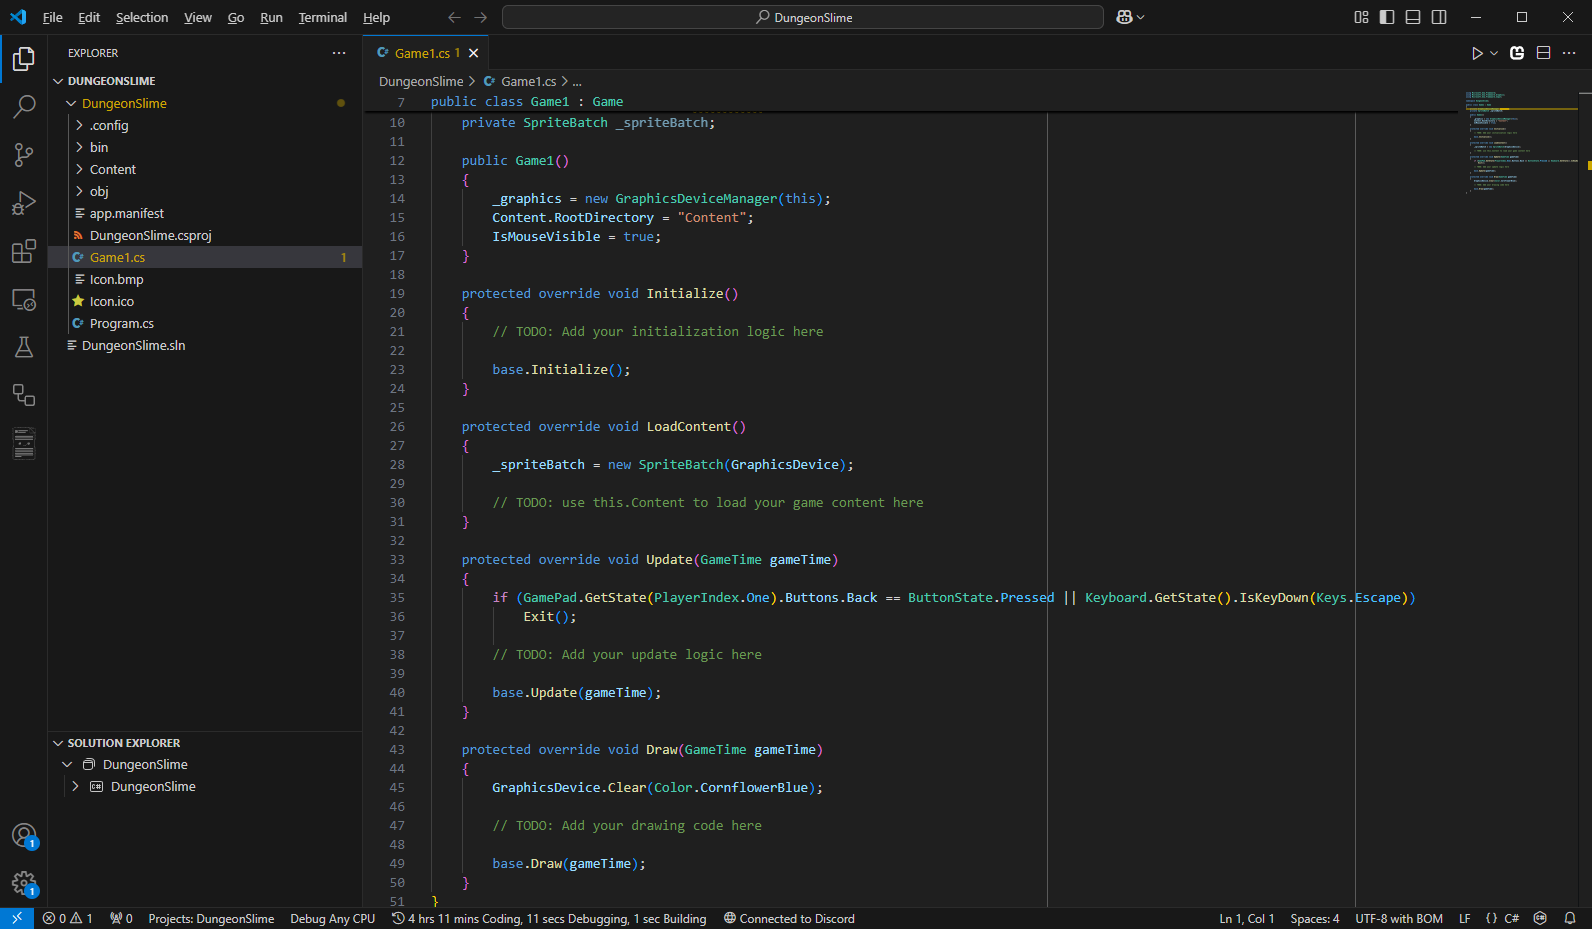
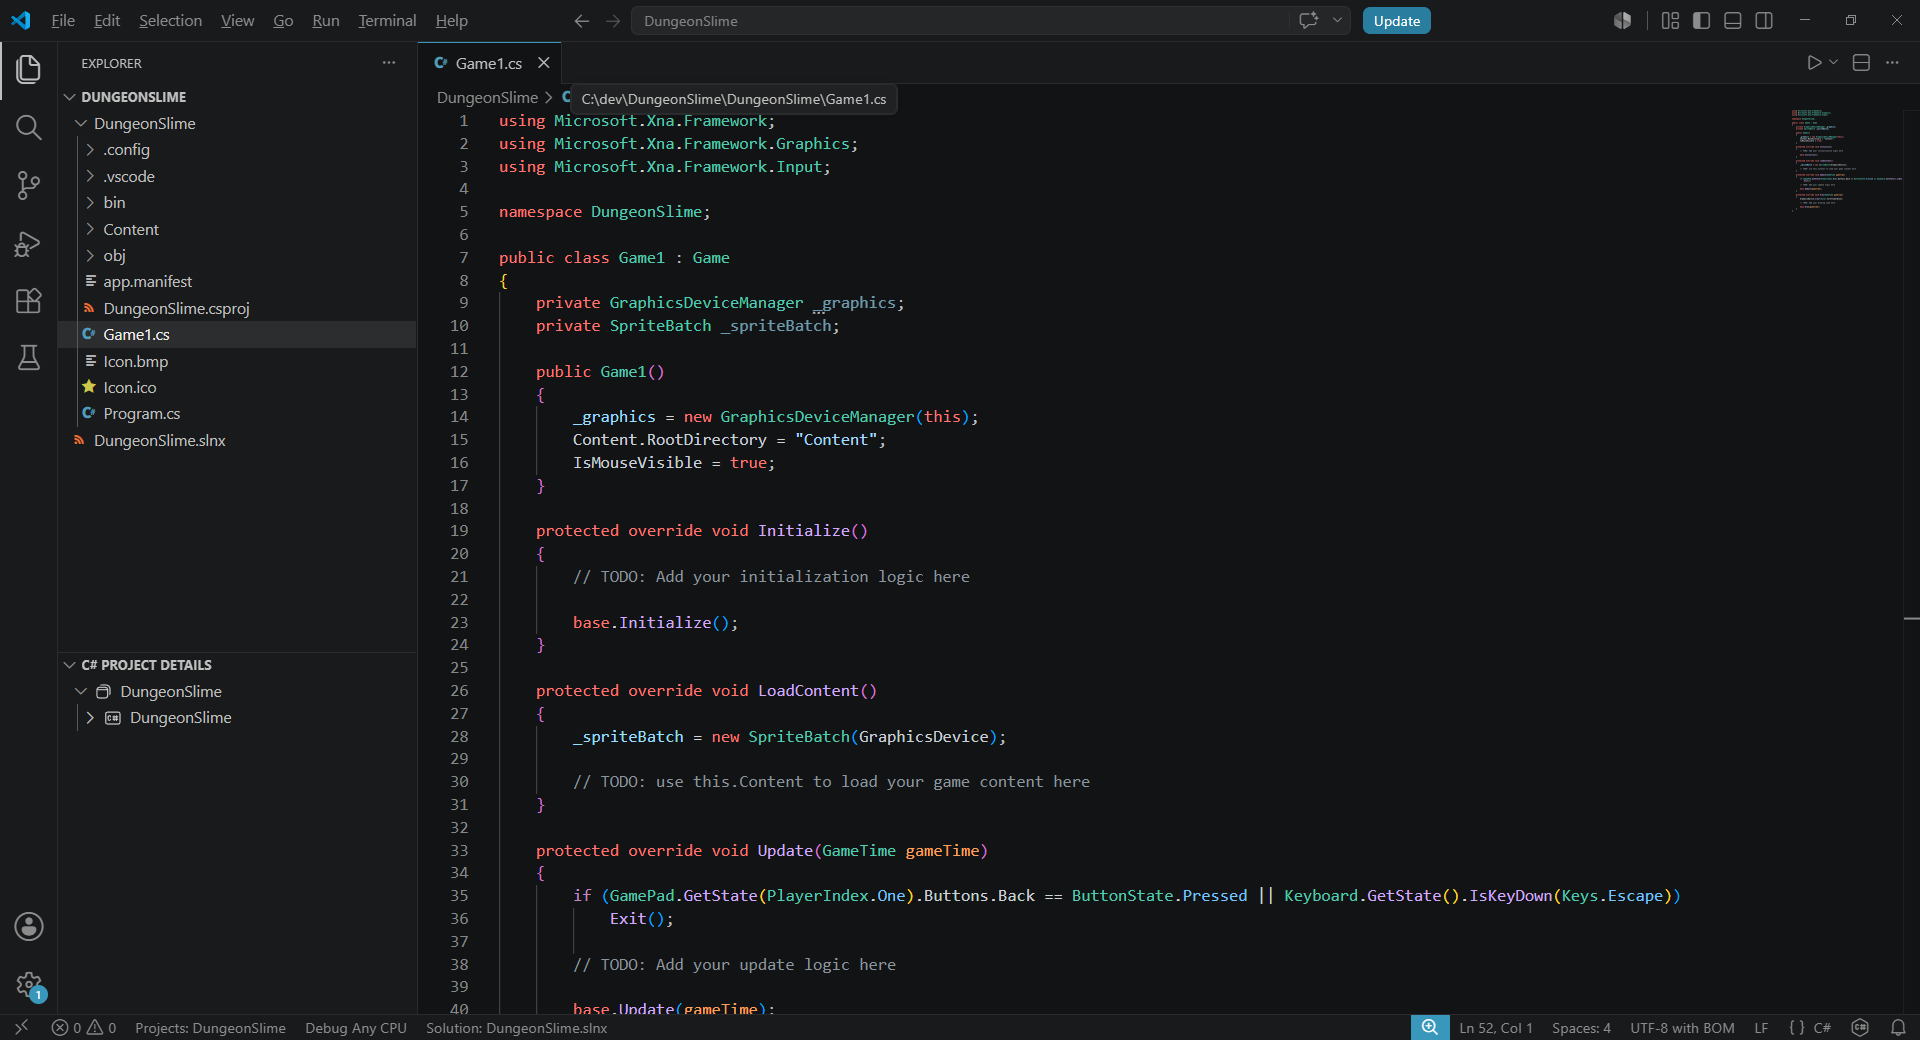
Update documentation due to C# Dev Kit Extension updates (#282)

diff --git a/articles/tutorials/building_2d_games/04_creating_a_class_library/index.md b/articles/tutorials/building_2d_games/04_creating_a_class_library/index.md
@@ -57,12 +57,15 @@ To use the template to add the class library, perform the following based on whi
 
 To add the class library using the MonoGame Game Library project template in Visual Studio Code, perform the following:
 
-1. In the [*Solution Explorer*](../02_getting_started/index.md#install-the-c-dev-kit-extension) panel, right-click the *DungeonSlime* solution.
-2. Choose *New Project* from the context menu.
-3. Enter "MonoGame Game Library" and select it as the template to use.
-4. Name the project "MonoGameLibrary".
-5. When prompted for a location, use the default option, which will put the new project in a folder next to your game project.
-6. Select "Create Project".
+1. Open the *Command Palette* using `CTRL+SHIFT+P` (`CMD+SHIFT+P` on macOS).
+2. Enter `.NET New Project` and choose that command.
+3. Enter `MonoGame Game Library` as the search term, then choose that template.
+4. Name the project `MonoGameLibrary`.
+5. When prompted for a location, you can use the default location or choose a different folder if you prefer a different project layout.
+6. Select `Create Project`.
+
+> [!TIP]
+> If C# Dev Kit already has your `DungeonSlime.sln` solution loaded, it should automatically add the newly created `MonoGameLibrary` project to that solution.
 
 ### [Visual Studio 2022](#tab/vs2022)
 
@@ -93,15 +96,18 @@ Now that the game library project has been created, a reference to it needs to b
 
 To add the game library project as a reference to the game project in Visual Studio Code:
 
-1. In the Solution Explorer panel, right-click the *DungeonSlime* project.
-2. Choose "Add Project Reference" from the context menu.
-3. Choose *MonoGameLibrary* from the available options.
+1. In the *Explorer* panel, right-click the `DungeonSlime.csproj` file.
+2. Choose `Add Project Reference` from the context menu.
+3. Choose `MonoGameLibrary` from the available options.
+
+| ![Figure 4-3: Adding a project reference from the DungeonSlime.csproj file in Visual Studio Code](./images/add-project-reference.png) |
+| :-------------------------------------------------------------------------------------------------------------------------------: |
+|                        **Figure 4-3: Adding a project reference from the DungeonSlime.csproj file in Visual Studio Code**                         |
 
 > [!TIP]
-> The Solution Explorer panel in VSCode is provided by the C# Dev Kit extension that was installed in [Chapter 02](../02_getting_started/index.md#install-the-c-dev-kit-extension).  If you do not see this panel, you can open it by
+> The project commands in VSCode are provided by the C# Dev Kit extension that was installed in [Chapter 02](../02_getting_started/index.md#install-the-c-dev-kit-extension). If you do not see C#-specific commands when right-clicking the `.csproj` file, make sure the project folder is open in VSCode and give C# Dev Kit a moment to finish loading the workspace.
 >
-> 1. Opening the *Command Palette* (View > Command Palette).
-> 2. Enter "Explorer: Focus on Solution Explorer View" and select the command.
+> Depending on your version of the extension, you may also see related information in the *C# Project Details* view.
 
 ### [Visual Studio 2022](#tab/vs2022)
 
@@ -181,9 +187,9 @@ Running the game now will show the same window as before, only now it is at a 12
 > [!NOTE]
 > If you get any additional prompts when starting the project, simply accept the defaults.  Adding the Game Library gives the compiler more projects to choose from when starting the project, however, we can only "run" the Game Project, libraries are not executables.
 
-| ![Figure 4-3: The game window at 1280x720 with the title Dungeon Slime](./images/game-window.png) |
+| ![Figure 4-4: The game window at 1280x720 with the title Dungeon Slime](./images/game-window.png) |
 | :-----------------------------------------------------------------------------------------------: |
-|             **Figure 4-3: The game window at 1280x720 with the title Dungeon Slime**              |
+|             **Figure 4-4: The game window at 1280x720 with the title Dungeon Slime**              |
 
 > [!IMPORTANT]
 > If you receive an error stating the following:

diff --git a/articles/tutorials/building_2d_games/20_implementing_ui_with_gum/index.md b/articles/tutorials/building_2d_games/20_implementing_ui_with_gum/index.md
@@ -317,11 +317,15 @@ To add the Gum NuGet package to our game project, follow the instructions below 
 
 To add the Gum NuGet package in Visual Studio Code:
 
-1. In the [*Solution Explorer*](../02_getting_started/index.md#install-the-c-dev-kit-extension) panel, right-click the `DungeonSlime` project.
-2. Choose `Add NuGet Package` from the context menu.
-3. Enter `Gum.MonoGame` in the `Add NuGet Package` search prompt and press Enter.
-4. When the search finishes, select the `Gum.MonoGame` package in the results
-5. When prompted for a version choose version `2026.5.8.1`.
+1. In the [*Explorer*](../02_getting_started/index.md#install-the-c-dev-kit-extension) panel, right-click the `DungeonSlime.csproj` file.
+2. Choose `C# Package Management > Add NuGet Package` from the context menu.
+3. Enter `Gum.MonoGame` in the search prompt, then press Enter to search NuGet.
+4. When the search finishes, select the `Gum.MonoGame` package in the results.
+5. When prompted for a version, choose version `2026.5.8.1`.
+
+| ![Figure 20-1: Adding a NuGet package from the DungeonSlime.csproj file in Visual Studio Code](./images/add-nuget-package.png) |
+| :--------------------------------------------------------------------------------------------------------------------------: |
+|                       **Figure 20-1: Adding a NuGet package from the DungeonSlime.csproj file in Visual Studio Code**                        |
 
 #### [Visual Studio 2022](#tab/vs2022)
 
@@ -373,9 +377,9 @@ Next, add this sound effect to your content project using the MGCB Editor:
 4. In the Properties panel, verify that the `Processor` is set to `Sound Effect`.
 5. Save the changes and close the MGCB Editor.
 
-| ![Figure 20-1: The MGCB Editor with ui.wav added to the audio folder](./images/mgcb-editor.png) |
+| ![Figure 20-2: The MGCB Editor with ui.wav added to the audio folder](./images/mgcb-editor.png) |
 | :---------------------------------------------------------------------------------------------: |
-|             **Figure 20-1: The MGCB Editor with ui.wav added to the audio folder**              |
+|             **Figure 20-2: The MGCB Editor with ui.wav added to the audio folder**              |
 
 We will load and use this sound effect in our UI implementation to provide auditory feedback when players interact with buttons and sliders.
 
@@ -537,9 +541,9 @@ Update the `Draw` method to the following:
 
 With these changes, our UI system is now fully integrated into the scene's game loop.  Gum updates its controls in the `Update` method and draws them in the `Draw` method.  This produces a fully functional title screen with buttons that allows players to start the game or adjust audio settings.  
 
-| ![Figure 20-2: Title screen with default Gum buttons](./images/title-unstyled.png) |
+| ![Figure 20-3: Title screen with default Gum buttons](./images/title-unstyled.png) |
 | :--------------------------------------------------------------------------------: |
-|               **Figure 20-2: Title screen with default Gum buttons**               |
+|               **Figure 20-3: Title screen with default Gum buttons**               |
 
 > [!NOTE]
 > You may notice that the UI elements currently use Gum's default styling, which does not match our game's visual theme.  We will explore customizing these controls to match our game's visual style in the next chapter.
@@ -619,9 +623,9 @@ Finally, add Gum's drawing call to the end fo the `Draw` method:
 
 With these changes, the pause menu is now fully integrated into the game scene's game loop.  Gum updates its controls during the `Update` method and draws them during the `Draw` method.  If the game is paused, as determined by the `IsVisible` property of the pause menu, then updating the actual game logic is skipped.
 
-| ![Figure 20-3: The pause menu during the game scene with default Gum buttons](./images/pause-unstyled.png) |
+| ![Figure 20-4: The pause menu during the game scene with default Gum buttons](./images/pause-unstyled.png) |
 | :---------------------------------------------------------------------------------------------------------: |
-|               **Figure 20-3: The pause menu during the game scene with default Gum buttons**               |
+|               **Figure 20-4: The pause menu during the game scene with default Gum buttons**               |
 
 ## Conclusion
 

diff --git a/articles/tutorials/building_2d_games/02_getting_started/index.md b/articles/tutorials/building_2d_games/02_getting_started/index.md
@@ -108,19 +108,19 @@ To install VSCode, follow the instructions for your operating system below:
 
 ## Install the C# Dev Kit Extension
 
-For C# development using VSCode, it is recommended to use the official *[C# Dev Kit](https://marketplace.visualstudio.com/items?itemName=ms-dotnettools.csdevkit)* extension provided by Microsoft. Installing this extension will add additional features to VSCode such as a project system and *Solution Explorer* for C# projects. It also provides code editing features such as syntax highlighting, code completion, code navigation, refactoring, NuGet package management, and debugging tools.
+For C# development using VSCode, it is recommended to use the official *[C# Dev Kit](https://marketplace.visualstudio.com/items?itemName=ms-dotnettools.csdevkit)* extension provided by Microsoft. Installing this extension adds C# project tooling to VSCode, including project actions in the *Explorer* panel, the *C# Project Details* view, and status bar integration for loaded solutions. It also provides code editing features such as syntax highlighting, code completion, code navigation, refactoring, NuGet package management, and debugging tools.
 
 > [!NOTE]  
-> The *Solution Explorer* panel is a hierarchical view provided by the C# Dev Kit extension that displays your solution structure similar  to Visual Studio's Solution Explorer.
+> The C# Dev Kit extension adds C#-specific project tooling to VSCode. Depending on the version of the extension and whether a solution file is loaded, you may see project actions on `.csproj` files in the *Explorer* panel, a *C# Project Details* view, and status bar text showing which solution file is currently open.
 >
-> When you open a workspace in Visual Studio Code containing a .NET solution file (*.sln*), the *Solution Explorer* panel automatically appears and loads your solution.  From this panel, you can perform common operations like:
+> When you open a workspace in Visual Studio Code containing a .NET solution file (*.sln*), C# Dev Kit can load that solution and expose common project actions. Common tasks you can perform include:
 >
-> * Adding new files.
+> * Creating new projects.
 > * Managing project references.
-> * Viewing dependencies.
-> * Executing build commands.
+> * Managing NuGet packages.
+> * Building and debugging projects from the `.csproj` file in *Explorer*.
 >
-> For more information about the *Solution Explorer* panel in Visual Studio Code offered through the C# Dev Kit extension, you can view the official documentation in the [Project Management](https://code.visualstudio.com/docs/csharp/project-management) documentation.
+> Microsoft is still updating some of their own documentation to match the current C# Dev Kit experience, so exact panel names and screenshots may differ. For general background on C# project tooling in VSCode, you can still refer to the [Project Management](https://code.visualstudio.com/docs/csharp/project-management) documentation.
 
 To install the C# Dev Kit extension, perform the following:
 
@@ -154,7 +154,7 @@ The .NET MAUI extension adds features for building mobile apps, including:
 
 - F5 debugging support - Debug your MonoGame mobile apps on emulators, simulators, and physical devices
 - Easy target switching - Change debug/deploy targets between different mobile platforms
-- Enhanced C# Dev Kit integration - Leverages Solution Explorer, Test Explorer, and advanced language features
+- Enhanced C# Dev Kit integration - Leverages C# project tooling, Test Explorer, and advanced language features
 
 | ![Figure 2-2: The .NET MAUI Extension listed in Visual Studio Code](./images/maui-extension.png) |
 | :-------------------------------------------------------------------------------------------------: |
@@ -227,7 +227,7 @@ After selecting *Create Project*, a new C# project will be generated based on th
 | :--------------------------------------------------------------------------------------------------: |
 |           **Figure 2-3: A new MonoGame project after being created in Visual Studio Code**           |
 
-Now that we have the project created, press the `F5` key on your keyboard, or choose *Run > Start Debugging* from the top menu. If prompted for a configuration, choose *C#*. The project will compile and run, displaying a screen similar to the following:
+Now that we have the project created, locate the `DungeonSlime.csproj` file in the *Explorer* panel, right-click it, then choose *Debug > Start New Instance*. The project will compile and run, displaying a screen similar to the following:
 
 | ![Figure 2-4: The default MonoGame cornflower blue game window](./images/game-window.png) |
 | :---------------------------------------------------------------------------------------: |